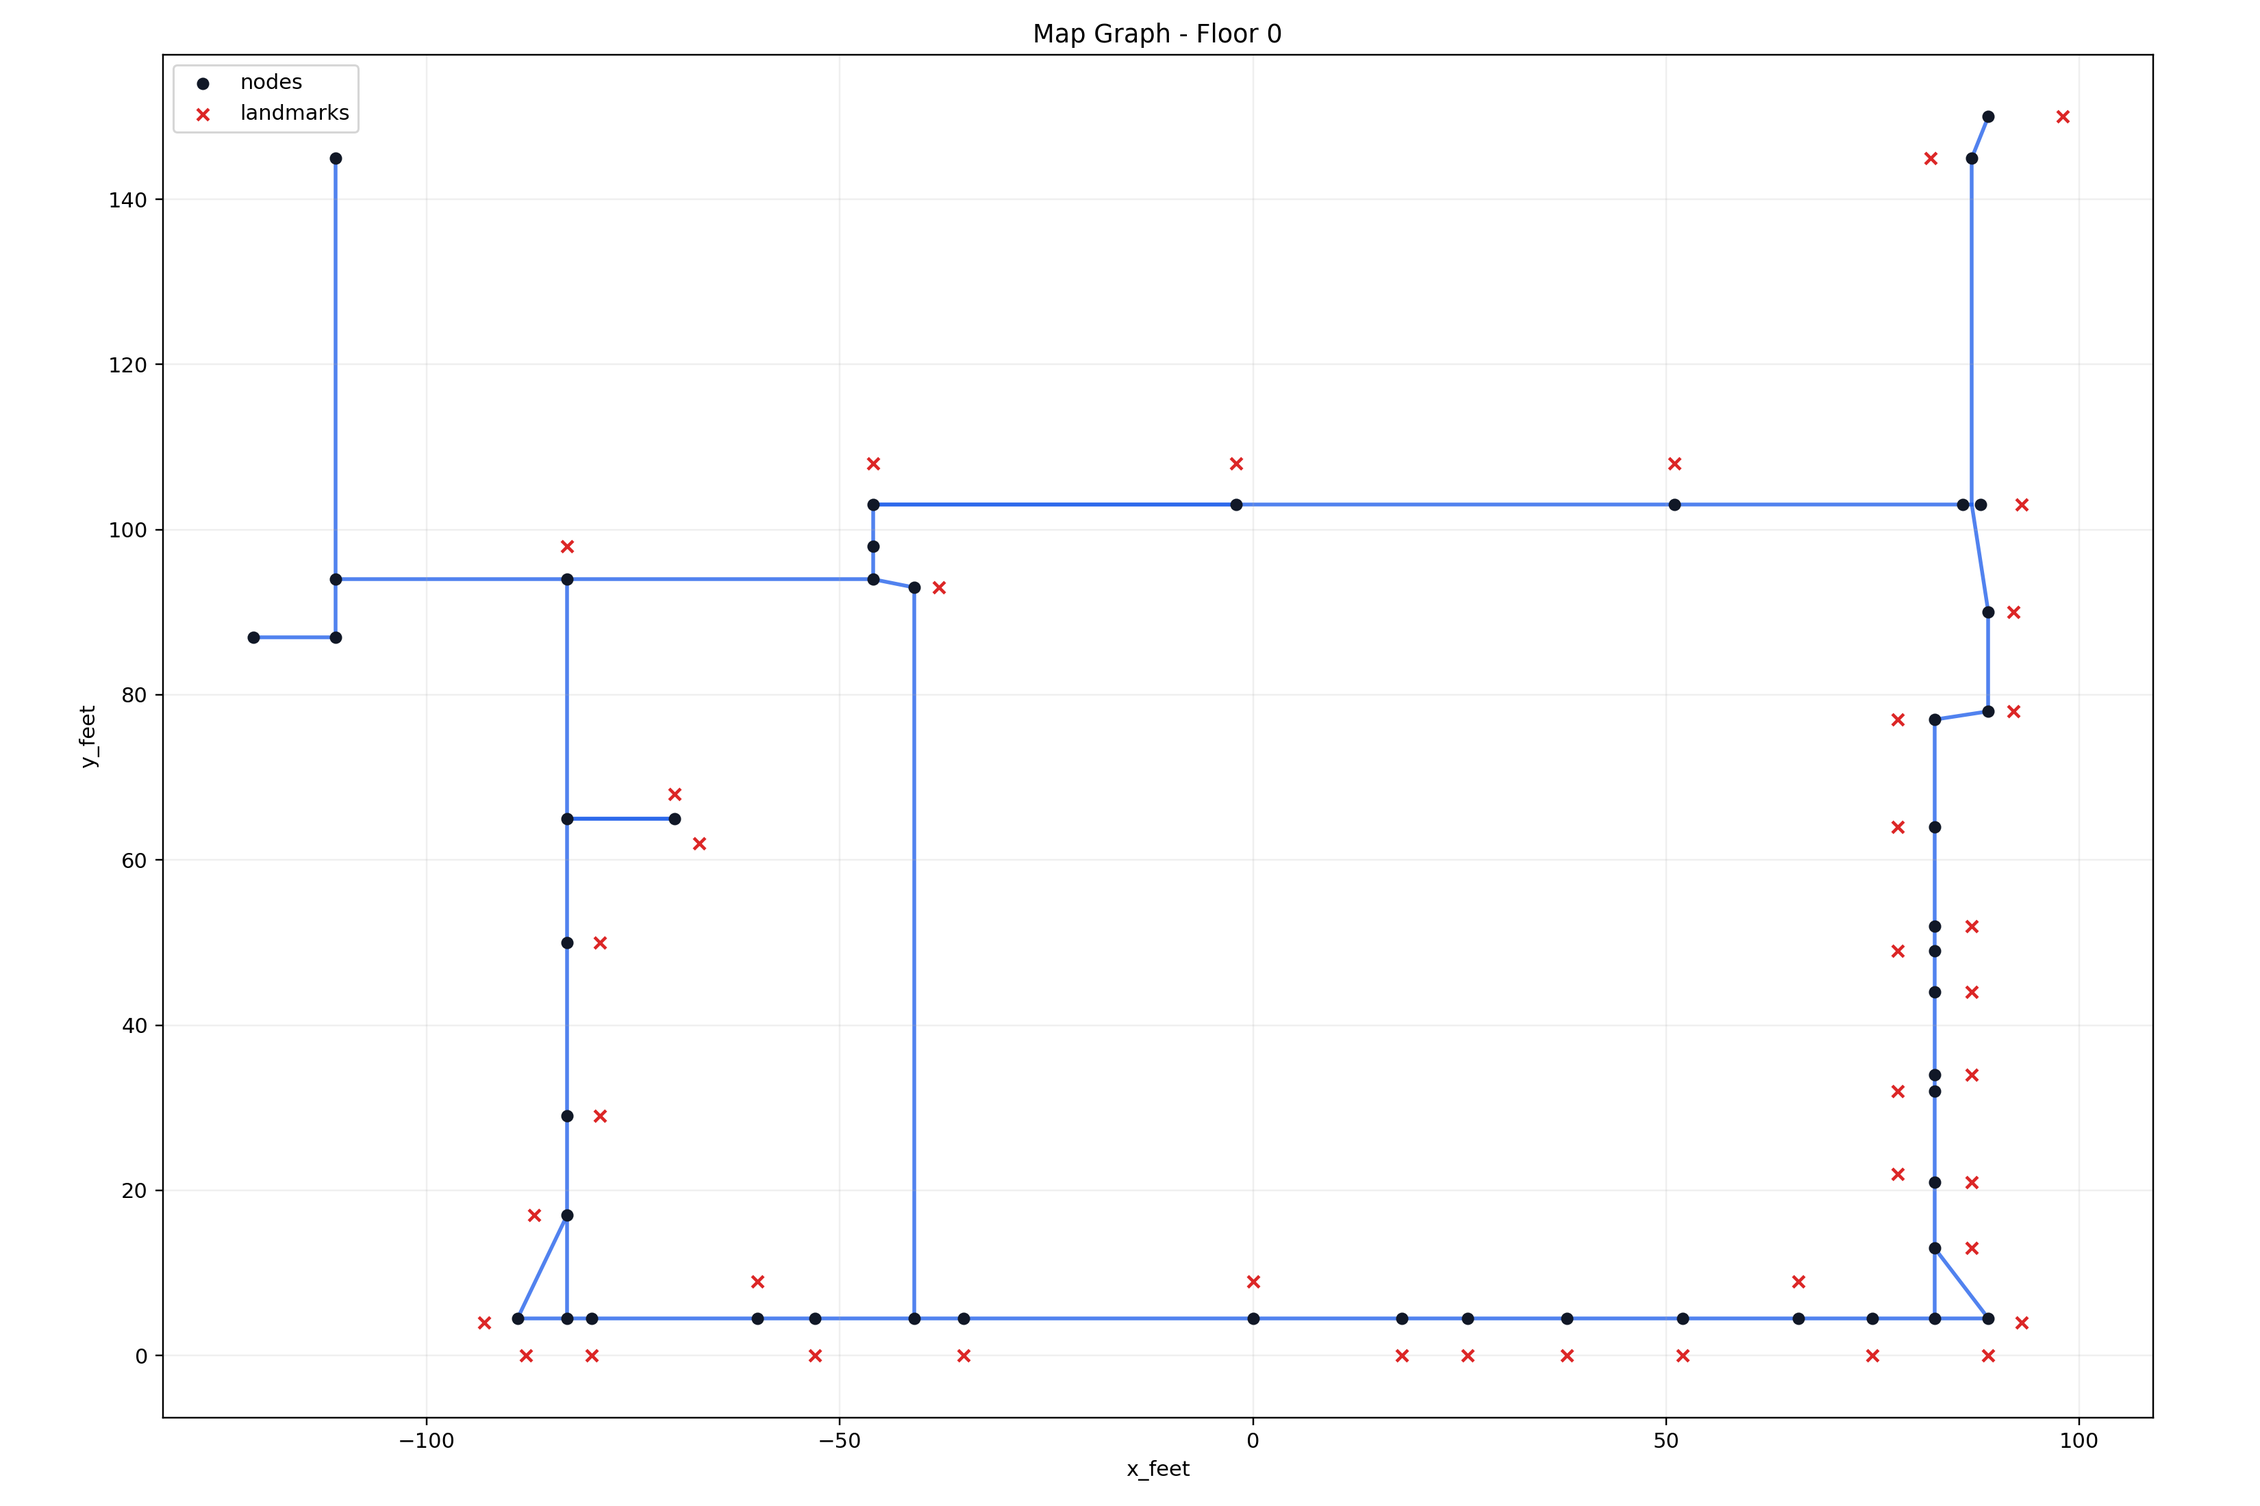
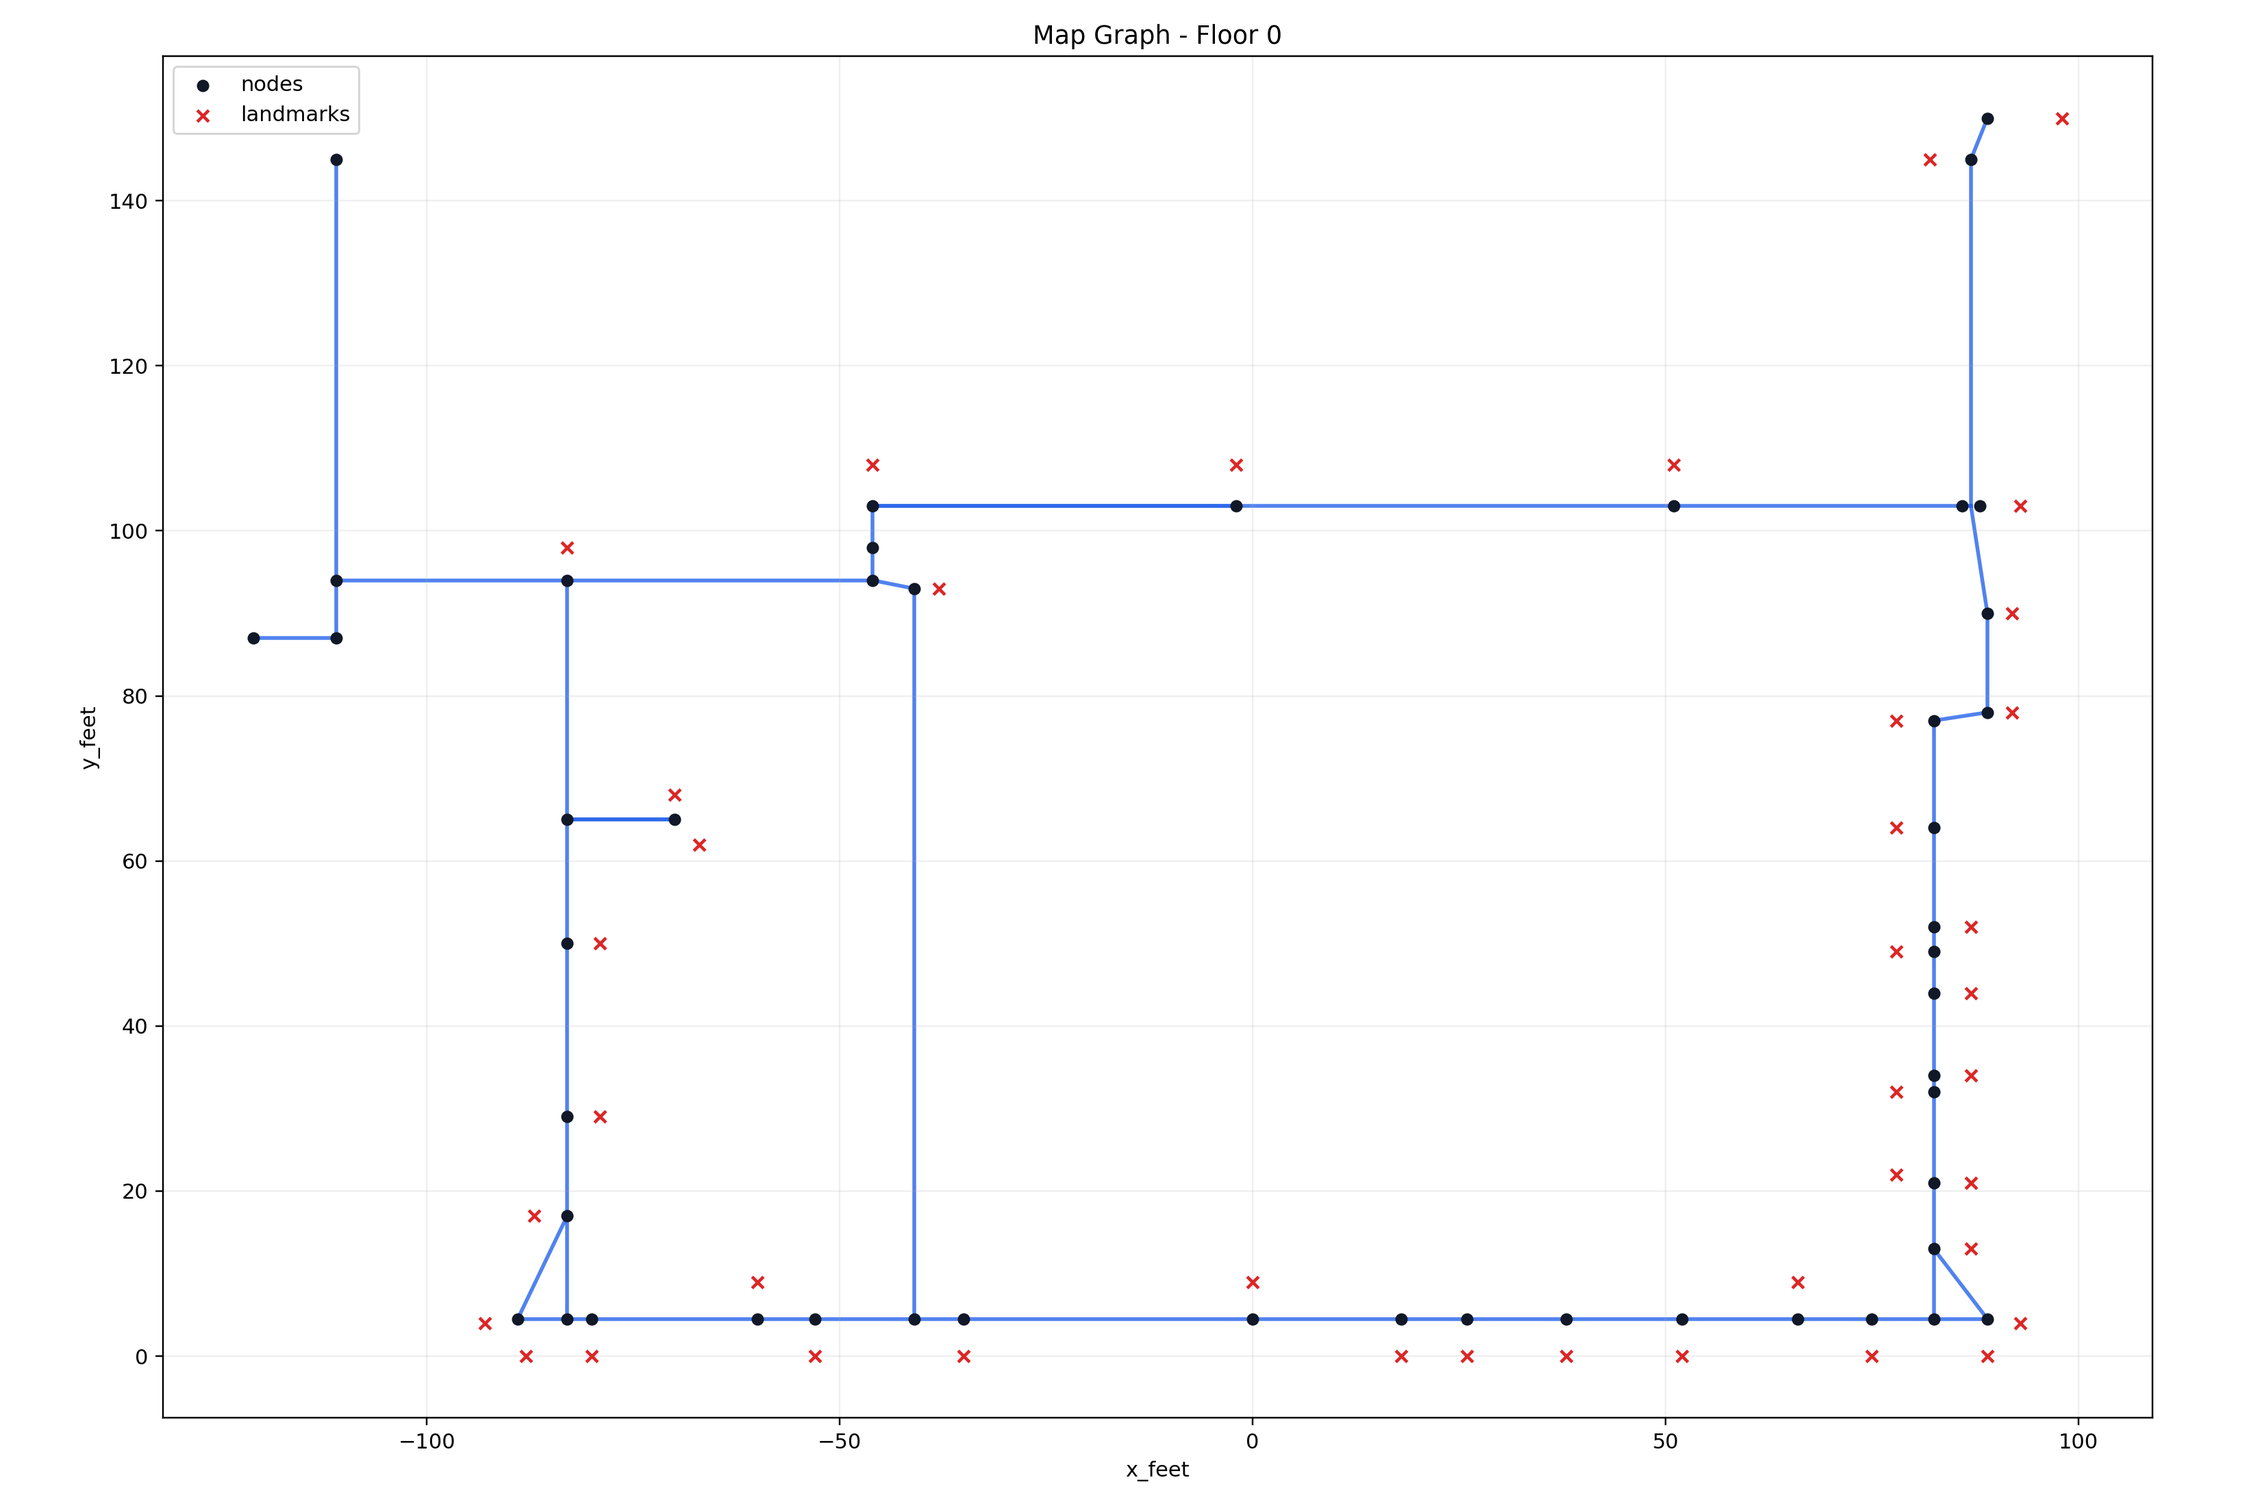
update dmap population validators and new offsets, fixed small mismatch on landmark/node naming

diff --git a/aws_resources/map_population/floor_data/validation.py b/aws_resources/map_population/floor_data/validation.py
@@ -1,0 +1,232 @@
+"""
+Generic floor-data validation helpers reusable across all registered floors.
+"""
+
+from __future__ import annotations
+
+from collections import Counter
+import math
+
+
+def validate_floor_payload(floor: dict, floor_label: str = "unknown-floor") -> None:
+    """
+    Validate a single floor payload in the canonical map authoring format.
+
+    Expected floor shape:
+      {
+        "floor_number": int,
+        "nodes": [...],
+        "edges": [...],
+        "landmarks": [...],
+      }
+    """
+    _assert_floor_required_fields(floor, floor_label)
+
+    nodes = floor["nodes"]
+    edges = floor["edges"]
+    landmarks = floor["landmarks"]
+
+    _assert_nodes_have_required_fields(nodes, floor_label)
+    _assert_edges_have_required_fields(edges, floor_label)
+    _assert_landmarks_have_required_fields(landmarks, floor_label)
+
+    node_ids = _assert_unique_node_ids(nodes, floor_label)
+    _assert_valid_node_types(nodes, floor_label)
+    _assert_no_spaces_in_node_ids(nodes, floor_label)
+    _assert_coordinates_are_numeric(nodes, floor_label)
+
+    _assert_edges_reference_existing_nodes(edges, node_ids, floor_label)
+    _assert_edge_bearings_valid(edges, floor_label)
+    _assert_no_unintentional_self_loops(edges, floor_label)
+    _assert_no_unintentional_duplicate_coordinates(nodes, floor_label)
+
+    _assert_landmarks_reference_existing_nodes(landmarks, node_ids, floor_label)
+    _assert_hallwaypoint_doors_have_side_by_bearing(nodes, floor_label)
+    _assert_doors_reference_valid_incident_bearings(nodes, edges, floor_label)
+    _assert_landmark_door_ids_exist_on_nearest_nodes(nodes, landmarks, floor_label)
+
+
+def _assert_floor_required_fields(floor: dict, floor_label: str) -> None:
+    required = {"floor_number", "nodes", "edges", "landmarks"}
+    missing = sorted(required - set(floor.keys()))
+    if missing:
+        raise ValueError(f"{floor_label}: missing floor fields: {missing}")
+
+
+def _assert_unique_node_ids(nodes: list[dict], floor_label: str) -> set[str]:
+    node_ids = [node["id"] for node in nodes]
+    duplicates = [node_id for node_id, count in Counter(node_ids).items() if count > 1]
+    if duplicates:
+        raise ValueError(f"{floor_label}: duplicate node ids: {duplicates}")
+    return set(node_ids)
+
+
+def _assert_no_spaces_in_node_ids(nodes: list[dict], floor_label: str) -> None:
+    bad = [node["id"] for node in nodes if " " in node["id"]]
+    if bad:
+        raise ValueError(f"{floor_label}: node ids with spaces: {bad}")
+
+
+def _assert_nodes_have_required_fields(nodes: list[dict], floor_label: str) -> None:
+    required = ["id", "x_feet", "y_feet", "type"]
+    for node in nodes:
+        missing = [field for field in required if field not in node]
+        if missing:
+            raise ValueError(f"{floor_label}: node '{node.get('id', 'UNKNOWN')}' missing fields: {missing}")
+
+
+def _assert_edges_have_required_fields(edges: list[dict], floor_label: str) -> None:
+    required = ["start", "end", "bidirectional", "bearing_deg", "rev_bearing_deg"]
+    for edge in edges:
+        missing = [field for field in required if field not in edge]
+        if missing:
+            raise ValueError(
+                f"{floor_label}: edge '{edge.get('start', '?')}' -> '{edge.get('end', '?')}' "
+                f"missing fields: {missing}"
+            )
+
+
+def _assert_landmarks_have_required_fields(landmarks: list[dict], floor_label: str) -> None:
+    required = ["name", "x_feet", "y_feet", "nearest_node", "door_id"]
+    for landmark in landmarks:
+        missing = [field for field in required if field not in landmark]
+        if missing:
+            raise ValueError(
+                f"{floor_label}: landmark '{landmark.get('name', 'UNKNOWN')}' missing fields: {missing}"
+            )
+
+
+def _assert_valid_node_types(nodes: list[dict], floor_label: str) -> None:
+    valid_types = {"Intersection", "Corner", "Elevator", "Stairwell", "Door", "HallwayPoint"}
+    bad = [node["id"] for node in nodes if node.get("type") not in valid_types]
+    if bad:
+        raise ValueError(f"{floor_label}: nodes with invalid types: {bad}")
+
+
+def _assert_coordinates_are_numeric(nodes: list[dict], floor_label: str) -> None:
+    bad = []
+    for node in nodes:
+        if not isinstance(node.get("x_feet"), (int, float)) or not isinstance(node.get("y_feet"), (int, float)):
+            bad.append(node.get("id", "UNKNOWN"))
+    if bad:
+        raise ValueError(f"{floor_label}: nodes with non-numeric coordinates: {bad}")
+
+
+def _assert_edges_reference_existing_nodes(
+    edges: list[dict],
+    node_ids: set[str],
+    floor_label: str,
+) -> None:
+    missing = []
+    for edge in edges:
+        if edge["start"] not in node_ids:
+            missing.append(("start", edge["start"]))
+        if edge["end"] not in node_ids:
+            missing.append(("end", edge["end"]))
+    if missing:
+        raise ValueError(f"{floor_label}: edges reference missing nodes: {missing}")
+
+
+def _assert_edge_bearings_valid(edges: list[dict], floor_label: str) -> None:
+    bad = []
+    for edge in edges:
+        fwd = float(edge["bearing_deg"]) % 360.0
+        rev = float(edge["rev_bearing_deg"]) % 360.0
+        expected_rev = (fwd + 180.0) % 360.0
+        if not math.isclose(rev, expected_rev, abs_tol=1e-6):
+            bad.append((edge["start"], edge["end"], f"rev {rev} != {expected_rev}"))
+    if bad:
+        raise ValueError(f"{floor_label}: invalid edge bearings: {bad}")
+
+
+def _assert_no_unintentional_self_loops(edges: list[dict], floor_label: str) -> None:
+    bad = []
+    for edge in edges:
+        if edge["start"] == edge["end"]:
+            bad.append((edge["start"], edge["end"]))
+    if bad:
+        raise ValueError(f"{floor_label}: unexpected self-loop edges: {bad}")
+
+
+def _assert_no_unintentional_duplicate_coordinates(nodes: list[dict], floor_label: str) -> None:
+    coords = [(node["x_feet"], node["y_feet"]) for node in nodes]
+    duplicate_coords = [coord for coord, count in Counter(coords).items() if count > 1]
+    if duplicate_coords:
+        raise ValueError(f"{floor_label}: unexpected duplicate coordinates: {duplicate_coords}")
+
+
+def _assert_landmarks_reference_existing_nodes(
+    landmarks: list[dict],
+    node_ids: set[str],
+    floor_label: str,
+) -> None:
+    missing = [lm["nearest_node"] for lm in landmarks if lm["nearest_node"] not in node_ids]
+    if missing:
+        raise ValueError(f"{floor_label}: landmarks reference missing nearest nodes: {sorted(set(missing))}")
+
+
+def _assert_hallwaypoint_doors_have_side_by_bearing(nodes: list[dict], floor_label: str) -> None:
+    issues = []
+    for node in nodes:
+        if node.get("type") != "HallwayPoint":
+            continue
+        for door in node.get("doors", []):
+            if "id" not in door or "label" not in door:
+                issues.append((node.get("id"), "missing door id/label"))
+                continue
+            side_entries = door.get("side_by_bearing")
+            if not side_entries:
+                issues.append((node.get("id"), door.get("id"), "missing side_by_bearing"))
+                continue
+            for side_entry in side_entries:
+                side = side_entry.get("side")
+                bearing = side_entry.get("bearing_deg")
+                if side not in {"left", "right"}:
+                    issues.append((node.get("id"), door.get("id"), f"invalid side '{side}'"))
+                if not isinstance(bearing, (int, float)):
+                    issues.append((node.get("id"), door.get("id"), f"invalid bearing '{bearing}'"))
+    if issues:
+        raise ValueError(f"{floor_label}: hallway-point door metadata invalid: {issues}")
+
+
+def _assert_doors_reference_valid_incident_bearings(
+    nodes: list[dict],
+    edges: list[dict],
+    floor_label: str,
+) -> None:
+    incoming_by_node: dict[str, set[float]] = {node["id"]: set() for node in nodes}
+    for edge in edges:
+        incoming_by_node[edge["end"]].add(float(edge["bearing_deg"]) % 360.0)
+        incoming_by_node[edge["start"]].add(float(edge["rev_bearing_deg"]) % 360.0)
+
+    issues = []
+    for node in nodes:
+        node_id = node["id"]
+        incident = incoming_by_node.get(node_id, set())
+        for door in node.get("doors", []):
+            side_entries = door.get("side_by_bearing", [])
+            for entry in side_entries:
+                bearing = float(entry["bearing_deg"]) % 360.0
+                if bearing not in incident:
+                    issues.append((node_id, door.get("id"), f"bearing {bearing} not incident on node"))
+
+    if issues:
+        raise ValueError(f"{floor_label}: door side_by_bearing validation failed: {issues}")
+
+
+def _assert_landmark_door_ids_exist_on_nearest_nodes(
+    nodes: list[dict],
+    landmarks: list[dict],
+    floor_label: str,
+) -> None:
+    node_lookup = {node["id"]: node for node in nodes}
+    issues = []
+    for landmark in landmarks:
+        door_id = landmark.get("door_id")
+        nearest = landmark.get("nearest_node")
+        node = node_lookup.get(nearest, {})
+        door_ids = {door.get("id") for door in node.get("doors", [])}
+        if door_id not in door_ids:
+            issues.append((landmark.get("name"), nearest, door_id))
+    if issues:
+        raise ValueError(f"{floor_label}: landmark door_id not found on nearest node doors: {issues}")

diff --git a/aws_resources/map_population/floor_data/floor0/validate.py b/aws_resources/map_population/floor_data/floor0/validate.py
@@ -1,31 +1,27 @@
 """
-Validation utilities for floor2_v2 manual authoring.
+Validation utilities for floor0 manual authoring.
 
 Run:
-    python -m floor_data.floor2_v2.validate
+    python -m floor_data.floor0.validate
 """
 
 from __future__ import annotations
 
 import importlib
 
-from . import FLOOR2_DATA_V2
+from . import FLOOR0_DATA
 from .constants import BUILDING_ID, FLOOR_NUMBER
 
 
-def validate_floor2_v2() -> None:
-    floors = FLOOR2_DATA_V2.get("floors", [])
+def validate_floor0() -> None:
+    floors = FLOOR0_DATA.get("floors", [])
     floor = next((item for item in floors if item.get("floor_number") == FLOOR_NUMBER), None)
     if floor is None:
         raise ValueError(f"{BUILDING_ID}-F{FLOOR_NUMBER}: floor payload not found")
     generic_validator = importlib.import_module("floor_data.validation").validate_floor_payload
-    generic_validator(
-        floor,
-        floor_label=f"{BUILDING_ID}-F{FLOOR_NUMBER}",
-        enforce_door_bearing_incidence=True,
-    )
+    generic_validator(floor, floor_label=f"{BUILDING_ID}-F{FLOOR_NUMBER}")
 
 
 if __name__ == "__main__":
-    validate_floor2_v2()
-    print("floor2_v2 validation passed")
+    validate_floor0()
+    print("floor0 validation passed")

diff --git a/aws_resources/map_population/floor_data/registry.py b/aws_resources/map_population/floor_data/registry.py
@@ -33,6 +33,13 @@ REGISTERED_FLOORS: tuple[FloorRegistration, ...] = (
         data_var="FLOOR2_DATA_V2",
         validator_path="floor_data.floor2_v2.validate:validate_floor2_v2",
     ),
+    FloorRegistration(
+        building_id="B01",
+        floor_number=0,
+        module_path="floor_data.floor0",
+        data_var="FLOOR0_DATA",
+        validator_path="floor_data.floor0.validate:validate_floor0",
+    ),
 )
 
 
@@ -120,6 +127,13 @@ def validate_registered_floors() -> None:
         if registration.validator_path:
             validator = _load_validator(registration.validator_path)
             validator()
+        _, _, floor = _extract_registered_floor_data(registration)
+        # Runtime import avoids pyright path-resolution issues in CLI tooling context.
+        generic_validator = importlib.import_module("floor_data.validation").validate_floor_payload
+        generic_validator(
+            floor,
+            floor_label=f"{registration.building_id}-F{registration.floor_number}",
+        )
 
     # Also verify the registration/data contract itself.
     get_all_buildings_data()

diff --git a/aws_resources/map_population/cli.py b/aws_resources/map_population/cli.py
@@ -46,8 +46,8 @@ def main() -> int:
     populate.add_argument(
         "--coordinate-angle-offset",
         type=float,
-        default=51.0,
-        help="Clockwise angle offset in degrees applied during upload (default: 51).",
+        default=141.0,
+        help="Clockwise angle offset in degrees applied during upload (default: 141).",
     )
     populate.add_argument(
         "--side-by-bearing-offset",

diff --git a/aws_resources/map_population/floor_data/floor0/nodes.py b/aws_resources/map_population/floor_data/floor0/nodes.py
@@ -307,7 +307,7 @@ NODES = [
         y_feet= 78,
         doors=[
             DoorRef(
-                id="room_054",
+                id="room_054b",
                 label="Room 054B",
                 side_by_bearing=[
                     DoorSideByBearing(bearing_deg=180, side="right"), 

diff --git a/aws_resources/map_population/cli_commands/run_population.py b/aws_resources/map_population/cli_commands/run_population.py
@@ -18,7 +18,7 @@ logger = logging.getLogger(__name__)
 
 
 def main(
-    coordinate_angle_offset_deg: float = 51.0,
+    coordinate_angle_offset_deg: float = 141.0,
     side_by_bearing_offset_deg: float = 0.0,
 ) -> int:
     """Main entry point for database population."""

diff --git a/aws_resources/map_population/populate_floor_data.py b/aws_resources/map_population/populate_floor_data.py
@@ -18,7 +18,7 @@ logger.setLevel(logging.INFO)
 
 # Configuration
 FEET_TO_METERS = 0.3048
-DEFAULT_COORDINATE_ANGLE_OFFSET_DEG = 51.0
+DEFAULT_COORDINATE_ANGLE_OFFSET_DEG = 141.0
 DEFAULT_SIDE_BY_BEARING_OFFSET_DEG = 0.0
 
 

diff --git a/aws_resources/map_population/README.md b/aws_resources/map_population/README.md
@@ -52,7 +52,7 @@ Set required env before DB operations:
 5. Seed map data into RDS:
 
    ```bash
-   python cli.py populate --coordinate-angle-offset 51
+   python cli.py populate --coordinate-angle-offset 141
    ```
 
 6. Plot deployed DB map to verify what is actually stored:
